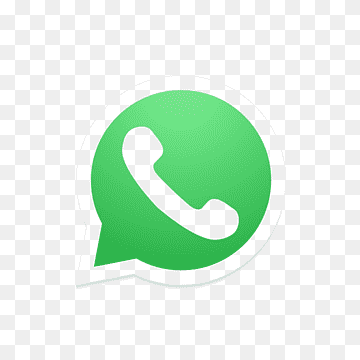
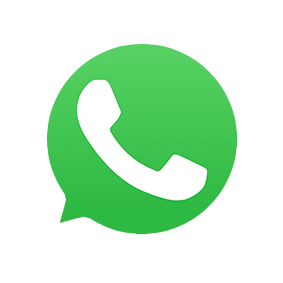
wsp

Changed region(s): [[0.1413, 0.1413, 0.8481, 0.8481]]

diff --git a/app/ui/menu/searchFunction/SearchFunction.tsx b/app/ui/menu/searchFunction/SearchFunction.tsx
@@ -5,31 +5,15 @@ import SearchIcon from '@mui/icons-material/Search';
 import styles from './searchFunction.module.css';
 import { getAllProducts, searchOneProduct } from "@/redux/features/productsSlice";
 
-interface Props {
-    status: boolean
-}
 
-export const SearchProduct: React.FC<Props> = ({ status }) => {
+export const SearchProduct = () => {
     const dispatch = useAppDispatch();
 
     const searchByCoincidence = async(event: React.ChangeEvent<HTMLInputElement>): Promise<void> => {
         dispatch(searchOneProduct(event.target.value.toLowerCase()));
         if(!event.target.value.length) dispatch(getAllProducts());
       }
-
-    // const handleReset = async (): Promise<void> => {
-    //     try {
-    //         if (status) {
-    //             await dispatch(getAllProducts());
-    //         } else {
-    //             await dispatch(getAllDeletedProducts());
-    //         }
-    //         setProductName('');
-    //     } catch (error) {
-    //         if (error instanceof Error) throw Error(error.message)
-    //     }
-    // }
-
+      
     return (
         <>
             <div className={`flex items-center ${styles.searchContainer}`}>

diff --git a/app/page.tsx b/app/page.tsx
@@ -13,7 +13,7 @@ import Image from "next/image";
 
 export default function Home() {
   const dispatch = useAppDispatch();
-  const allProducts = useAppSelector(state => state.productsSlice.products);
+  const allProducts = useAppSelector(state => state.productsSlice.productsForFilter);
 
   useEffect(() => {
     dispatch(getAllProducts());
@@ -25,11 +25,14 @@ export default function Home() {
       <div className={styles.divCategoriasCarrusel}>
         <Carrousel />
       </div>
+      <div className="fixed bottom-24 right-4 text-black">
+        {/* <p className=" font-extrabold">Escríbenos al wsp!</p> */}
+      <a className="fixed bottom-4 right-12 size-20 z-50 rounded-full bg-transparent hover:bg-pink-300 hover:transition-colors" href="https://wa.me/986475277">
+        <Image src={wsp} alt="WhatsApp" />
+      </a>
+      </div>
       {allProducts && <CardsProductos productos={allProducts} />}
 
-      {/* <a href="https://wa.me/986475277">
-        <Image src={wsp} alt="WhatsApp" />
-      </a> */}
       <Footer />
     </div>
   );

diff --git a/app/ui/cards/productos/mapeoCards/CardsProductos.tsx b/app/ui/cards/productos/mapeoCards/CardsProductos.tsx
@@ -1,8 +1,6 @@
 import React, { useEffect, useState } from 'react';
 import CardProducto from '../cardProducto/CardProducto';
 import { ProductsList } from '@/app/types/typeProduct';
-import axiosURL from '@/axiosConfig/axiosConfig';
-import { useAppSelector } from '@/redux/hook';
 
 interface Props {
   productos: ProductsList;

diff --git a/app/ui/menu/Menu.tsx b/app/ui/menu/Menu.tsx
@@ -40,7 +40,7 @@ export const Menu = () => {
         {/* SearchBar */}
         <div>
           {/* Después cambiar status por los de products */}
-          <SearchProduct status={true}/>
+          <SearchProduct/>
         </div>
   
         {/* Enlaces con iconos */}
